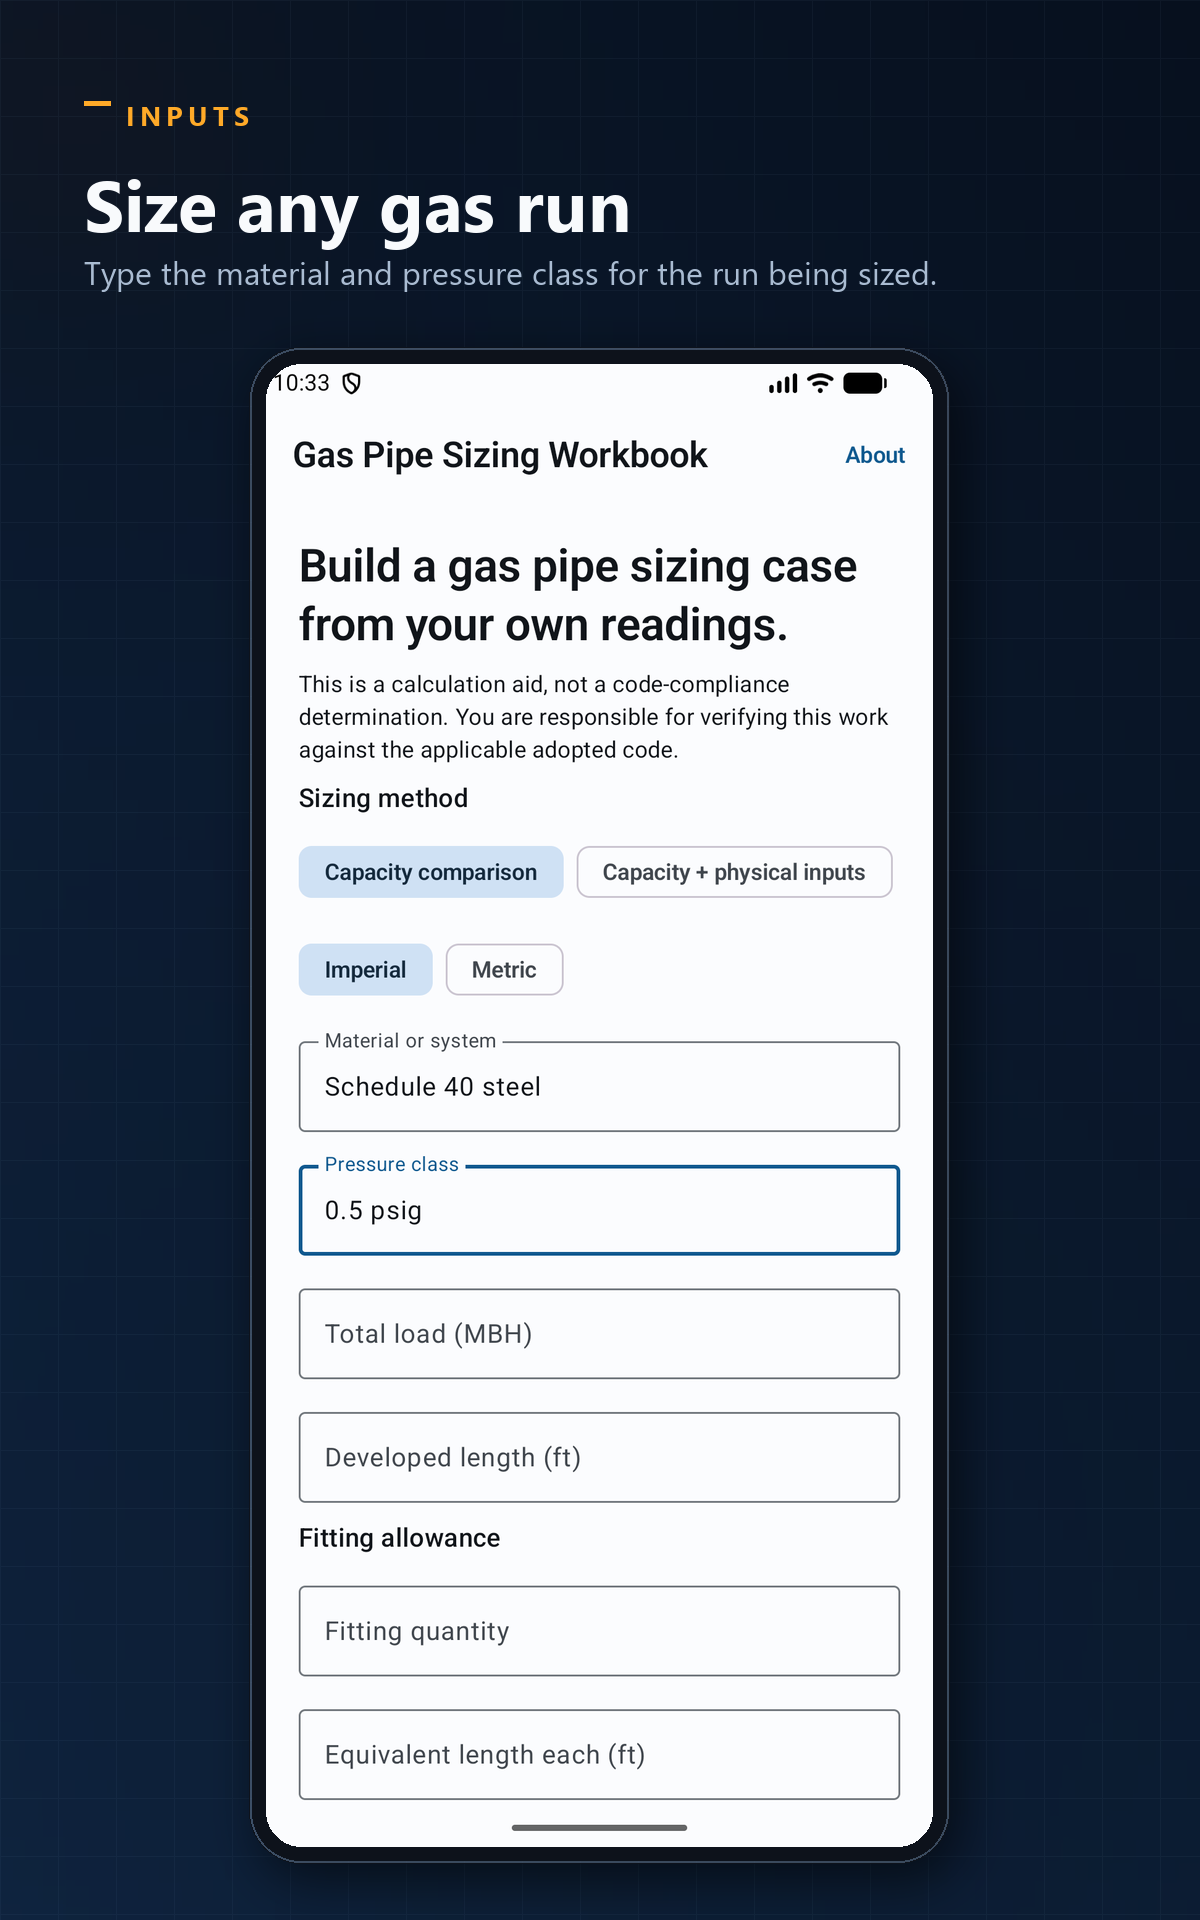
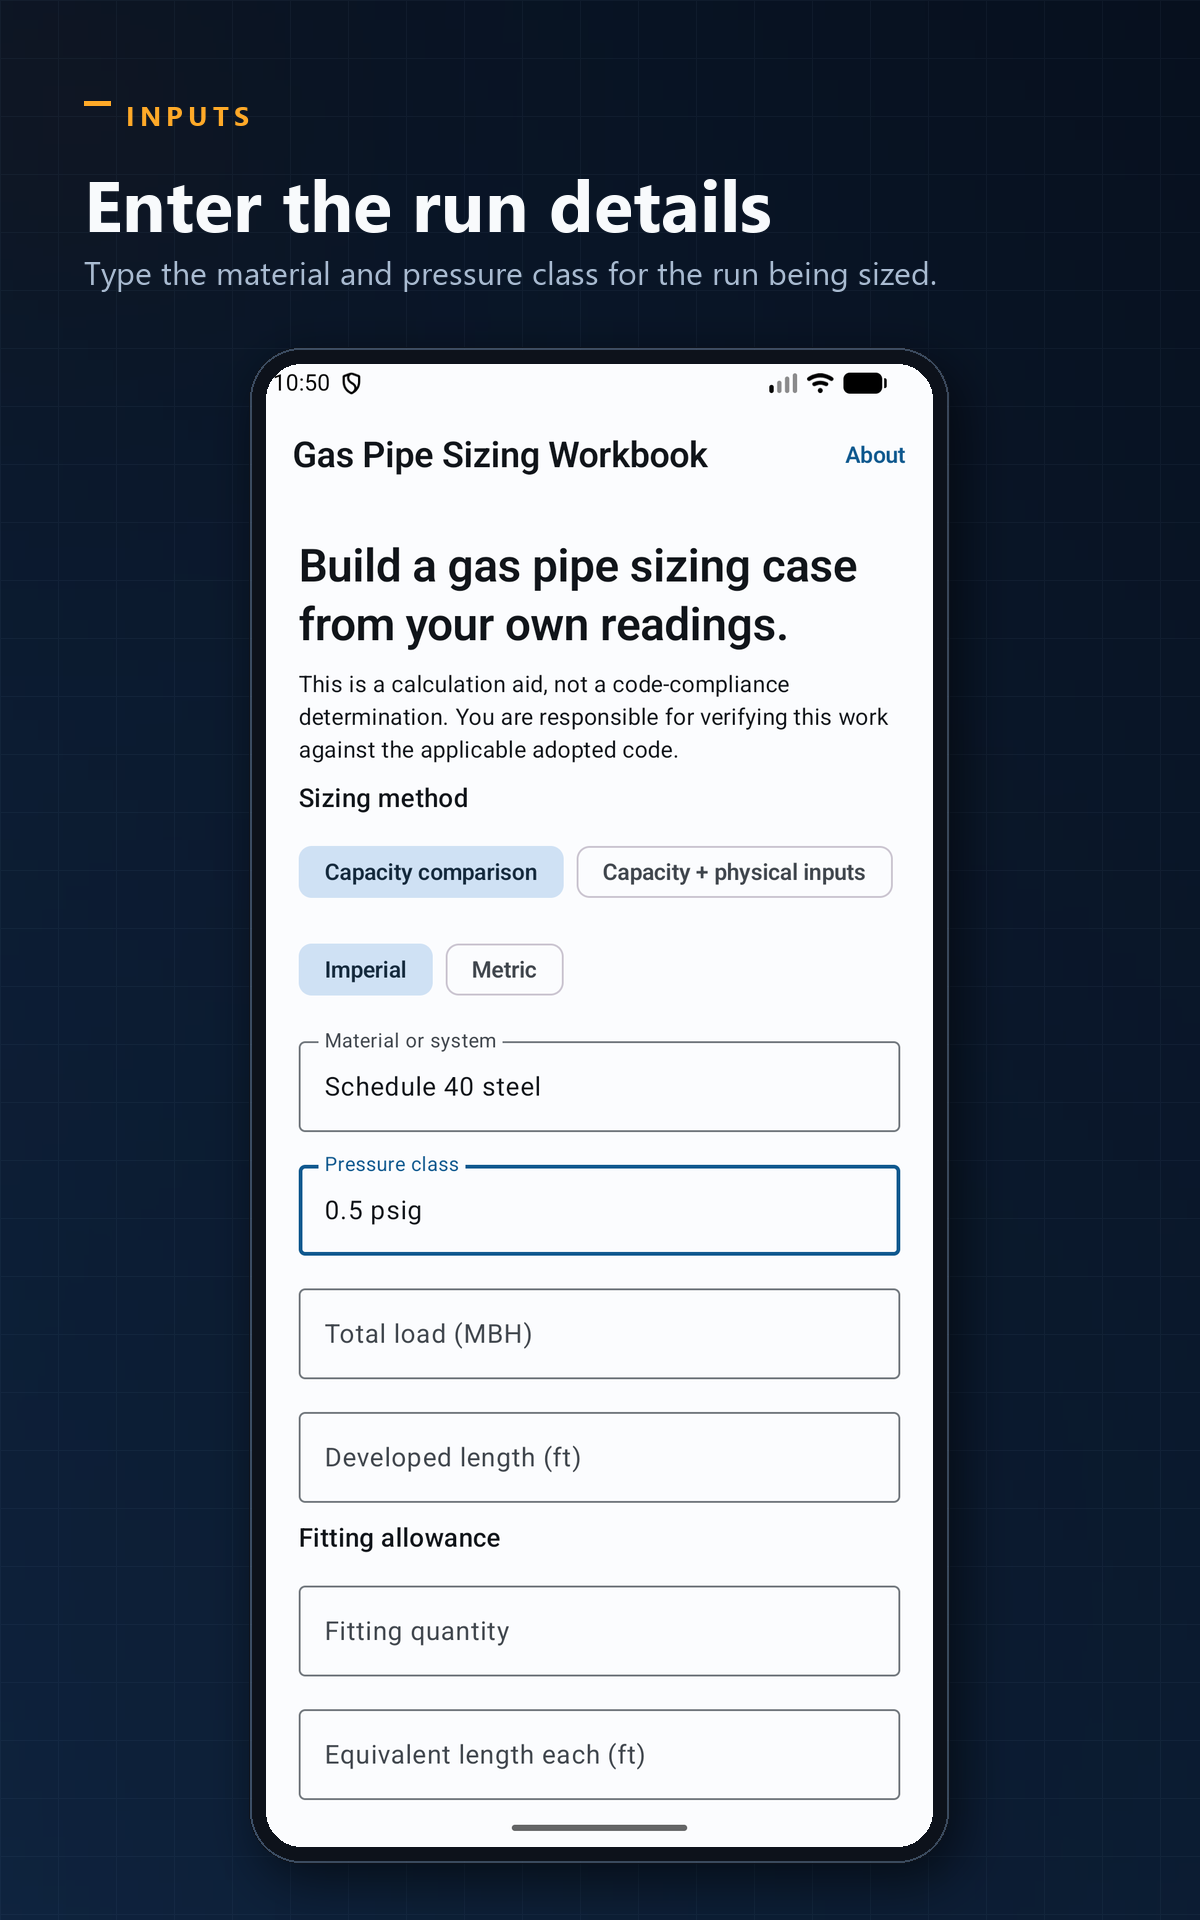
Fix the three findings an independent evaluation raised, plus its two UNVERIFIEDs
Round-4 returned FIX (Tests 3/5, Honesty 3/5). All three findings were
against work from the previous two commits.

High - the capture was not transactionally fail-closed. Captures were written
into captures/raw/ as each shot was taken, so a run failing at shot five had
already overwritten shots one to four with unverified images; the render was
skipped but raw/ was left mixed, and the next render would compose from it.
A second unverified path existed too: store-kit --capture drove the device with
no pm clear, no IME handling, no 'clear' support and no verification, then
rendered unconditionally, so the verified path could be bypassed entirely.
Now: captures stage in captures/staging/ and are moved into raw/ only after the
whole journey verifies, and --capture is retired and refuses with a pointer to
media-capture.mjs.

Medium - several 'expect' entries were static field captions ('Material or
system', 'Total load (MBH)', 'Code and edition', ...) that render regardless of
what was entered, so they could not fail while making a 2-entry check look like
a 4-entry one. Only value-bearing readings are asserted now, the exclusions are
explained in journey.json, and the journey checksum gained the citation line so
its 'echoes every value typed' claim is literally true. Shot 4 now asserts
29.3071 and 12.192, the canonical-reading fix's exact output, so the store check
regression-tests that fix too.

Medium - three headlines claimed more than the app does: 'Size any gas run'
[…]

Changed region(s): [[0.0617, 0.0938, 0.6475, 0.125], [0.6475, 0.1875, 0.6783, 0.2188]]

diff --git a/scripts/store-kit.py b/scripts/store-kit.py
@@ -109,7 +109,9 @@ def parser() -> argparse.ArgumentParser:
         "--locales", default=None, help="Comma-separated locales (supported: en-US,ru-RU)."
     )
     p.add_argument(
-        "--capture", action="store_true", help="Drive an attached device with ADB before rendering."
+        "--capture",
+        action="store_true",
+        help="Retired; refuses. Use 'node scripts/media-capture.mjs --slot <slug>' instead.",
     )
     p.add_argument(
         "--render-only", action="store_true", help="Render from existing captures or synthetic screens."
@@ -1214,51 +1216,22 @@ def run_adb(adb: str, serial: str, args: list[str], *, binary: bool = False) -> 
 
 
 def capture_with_adb(store: Path, listing: dict[str, Any]) -> bool:
-    journey_path = store / "journey.json"
-    if not journey_path.is_file():
-        write_json(journey_path, journey_example(listing))
-        print(f"PASS: wrote documented journey example {journey_path}")
-    adb = adb_path()
-    if not adb:
-        blocked_capture("adb was not found on PATH or under ANDROID_HOME/platform-tools")
-        return False
-    devices = subprocess.run([adb, "devices"], capture_output=True, text=True, check=False)
-    serials = []
-    if devices.returncode == 0:
-        serials = [line.split()[0] for line in devices.stdout.splitlines()[1:] if line.strip().endswith("\tdevice")]
-    if not serials:
-        blocked_capture("adb found no attached device in 'device' state")
-        return False
-    serial = serials[0]
-    journey = json.loads(read_text(journey_path))
-    shots = journey.get("shots", [])
-    if not isinstance(shots, list) or len(shots) < 6:
-        raise StoreKitError(f"{journey_path} must define at least 6 shots")
-    raw_dir = store / "captures" / "raw"
-    raw_dir.mkdir(parents=True, exist_ok=True)
-    run_adb(adb, serial, ["shell", "monkey", "-p", listing["applicationId"], "-c", "android.intent.category.LAUNCHER", "1"])
-    time.sleep(1)
-    for index, shot in enumerate(shots[:6], 1):
-        for step in shot.get("steps", []):
-            kind = step.get("type")
-            if kind == "tap":
-                run_adb(adb, serial, ["shell", "input", "tap", str(step["x"]), str(step["y"])])
-            elif kind == "swipe":
-                run_adb(adb, serial, ["shell", "input", "swipe", str(step["x1"]), str(step["y1"]), str(step["x2"]), str(step["y2"]), str(step.get("durationMs", 350))])
-            elif kind == "wait":
-                time.sleep(max(0, int(step.get("ms", 0))) / 1000)
-            elif kind == "text":
-                value = str(step.get("value", "")).replace(" ", "%s")
-                run_adb(adb, serial, ["shell", "input", "text", value])
-            elif kind == "back":
-                run_adb(adb, serial, ["shell", "input", "keyevent", "4"])
-            else:
-                raise StoreKitError(f"unsupported journey step type: {kind!r}")
-        payload = run_adb(adb, serial, ["exec-out", "screencap", "-p"], binary=True)
-        assert isinstance(payload, bytes)
-        (raw_dir / f"{index:02d}.png").write_bytes(payload)
-        print(f"PASS: captured raw screenshot {index:02d} from {serial}")
-    return True
+    """Refuse: this used to be a second, unverified capture path.
+
+    It drove the device itself and wrote straight into `captures/raw/` with no `pm clear`, no IME
+    handling, no `clear` step support, and - decisively - no verification of what it had
+    photographed, after which `main` rendered the pack from those captures unconditionally. That
+    made it possible to ship a store pack built from a screen nobody had checked, which is the
+    exact failure `scripts/media-capture.mjs` exists to prevent. Two implementations of one
+    journey meant the verified one could be bypassed, so this one is gone.
+    """
+    raise StoreKitError(
+        "--capture is retired: it photographed the device without verifying the result. Use "
+        f"'node scripts/media-capture.mjs --slot {listing.get('slug', '<slug>')}', which asserts "
+        "each shot's expected readings before capturing and refuses to re-render the assets when "
+        "a shot does not match."
+    )
+    return False  # unreachable; keeps the historic signature honest
 
 
 def render_all(store: Path, listing: dict[str, Any], locales: list[str], meta: dict[str, str]) -> None:

diff --git a/harness/lessons.md b/harness/lessons.md
@@ -310,9 +310,26 @@ Entries are append-only and remain in chronological insertion order.
 
 - Symptom: two consecutive capture runs of the same unchanged build produced a **clean** set of screenshots and then a **corrupted** one. The corrupted run showed `2Schedule 40 steel` - a stray leading digit in the material field - and the load field reading `593205.1531` with unit `kW`, an MBH load that had been re-expressed in the wrong unit. The corrupted run was written straight over the six good assets, so the pack was downgraded by a re-run that reported nothing wrong: every step still printed `PASS capture`.
 - Root cause: two independent defects that compounded. (1) **The journey was not idempotent.** The app persists the entered case across process death *on purpose*, which is a feature, so a field could already hold text when typing began; `input text` appends, which is how `2` became the prefix of `2Schedule 40 steel`. The documented precondition "clear the stored case first" existed only as prose in `journey.json` - the tool never enforced it. (2) **A failed verification still rendered.** The re-render step ran unconditionally afterwards, so the artifacts were replaced before anything had been proven about the captures they were built from. The unit corruption additionally shows the app's own unit-switch path was exercised by the previous run's persisted case, so the garbage was a real screen, not a rendering fault - the screenshot was honest and the *state* was wrong.
-- Fix class: **make the journey idempotent and make failure fail closed.** A `clear` step (move to end, then delete) precedes every entry, so a value no longer depends on what the previous run left behind; `pm clear` and the IME retry moved from prose into the tool; and the assets are now rendered only after every shot has verified, with retries, so a run that cannot prove what it photographed leaves the last good pack untouched. `store/journey.json` records why the clears exist, because the next person to add a shot will not know the field may already be populated.
+- Fix class: **make the journey idempotent and make failure fail closed.** A `clear` step (move to end, then delete) precedes every entry, so a value no longer depends on what the previous run left behind; `pm clear` and the IME retry moved from prose into the tool; captures are written to `captures/staging/` and moved into `captures/raw/` only after the whole journey verifies, so the raw directory always holds the previous complete good set or the new complete verified set and never a mixture; and the assets are rendered only after publication, so a run that cannot prove what it photographed leaves the last good pack untouched. `store/journey.json` records why the clears exist, because the next person to add a shot will not know the field may already be populated.
 - Evidence: the A/B on one unchanged build (`phone-01.png` hash `8cd881093cd3` clean, then `dccf254058ea` corrupted, with the on-screen text `2Schedule 40 steel` and `Total load (kW) 593205.1531` read from the `uiautomator` dump); and the restored assets matching the clean hash. The corruption was caught by the checksum from the two entries above, which is the whole point of having it: **the same check that was fabricated in prose is what actually caught this.**
-- Change made: `clear` steps in `store/journey.json`; `pm clear` and retried `ime disable` inside `replayJourney`; per-shot and journey-level `expect` assertions that run before each `screencap`; `--attempts` with a fail-closed `BLOCKED`. Residual: the journey is still sensitive to layout drift, since its coordinates are absolute pixels measured from one AVD profile, and a run can exhaust its attempts on a machine under load.
+- Change made: `clear` steps in `store/journey.json`; `pm clear` and retried `ime disable` inside `replayJourney`; per-shot and journey-level `expect` assertions that run before each `screencap`; `--attempts` with a fail-closed `BLOCKED`; staged publication into `captures/raw/`. Residual: the journey is still sensitive to layout drift, since its coordinates are absolute pixels measured from one AVD profile, and a run can exhaust its attempts on a machine under load.
+- **Correction, added after an independent evaluation:** the fail-closed claim above was initially only half true. Captures were written into `captures/raw/` **as each shot was taken**, so a run that failed at shot five had already overwritten shots one to four with unverified images - the render was skipped, but the raw directory was left in a mixed state that the *next* render would compose from. A second, unverified capture path existed too: `store-kit.py --capture` drove the device itself with no `pm clear`, no IME handling, no `clear` support and no verification, then rendered unconditionally, so the whole verified path could be bypassed. That path is now retired and refuses with a pointer to `media-capture.mjs`, and publication is staged. The rule this leaves: **"fail closed" is a property of the filesystem, not of the control flow** - check what is already written at the moment of failure, not only whether the next step runs.
+
+### 2026-09-25 - two checks that looked like verification and could not fail
+
+- Symptom: an independent evaluator scored the slot **FIX** (Tests 3/5, Honesty 3/5) on three findings, two of which were checks the orchestrator had just written and described as the fix. (1) Several `expect` entries were **static field captions** - `Material or system`, `Pressure class`, `Total load (MBH)`, `Developed length (ft)`, `Code and edition`, `Table`, `Row` - which render on the screen regardless of what was entered, so they were incapable of failing and inflated a 2-entry check into a 4-entry one. (2) Three store headlines made claims the bounded app does not implement: `Size any gas run` (the app owns no code-table data and does not determine the pipe size), `Nothing gets assumed` (it trusts the user's confirmed capacity), and `never hides an assumption`.
+- Root cause: **both are the same defect as the fabricated checksum two entries above - verification-shaped text that cannot be contradicted.** A static label passes a `text=` assertion for the same reason it always passes: it is not a function of the run. It is more dangerous than a missing check because it reads as coverage; the orchestrator wrote four assertions where two were real and reported the count. The overclaimed copy is the same failure in prose form: `Size any gas run` was chosen for rhythm, and nothing in the pipeline compares a headline against the app's capability list - only `graphics.md` and the listing were ever checked for that.
+- Fix class: **state the falsifiable consequence of every assertion, and delete the ones that have none.** `expect` arrays now carry only value-bearing readings, with the exclusions explained in `journey.json` so the next editor does not helpfully add the captions back; the headline ban is recorded in `studio.json` (`_claim_bounds`) so the constraint travels with the copy; and the journey checksum gained the citation line, which makes its "echoes every value typed" claim literally true rather than nearly true.
+- Evidence: the evaluator's own per-entry table separating value-sensitive entries (`4`, `5`, `A`, `2`) from static labels, and its verdict `FIX`; the re-run asserting `29.3071` and `12.192` - the canonical-reading fix's exact rounded output, so the store check now regression-tests that fix too.
+- Change made: expectations trimmed to falsifiable entries; headlines and tagline rewritten to name only verified behaviour (`Enter the run details`, `Missing inputs are named`, `See the arithmetic`); `journey.json` gained `Capacity provenance: CodeCitation(...)`. The general rule: **when a check reports a count, ask which of those entries could have failed** - a check that cannot fail is not half a check, it is a claim of coverage that does not exist.
+
+### 2026-09-25 - a comment asserted the impossibility of the behaviour that was happening
+
+- Symptom: `store-kit.py`'s new `load_studio_renderer` did `import store_studio`, but the module is `scripts/store-studio.py`. A hyphen is not valid in a Python identifier, so the import **could never succeed** - every render silently fell back to the generic renderer. Because `media-capture.mjs` re-renders through `store-kit.py`, the next capture run replaced the freshly composed store visuals with the old screencap-in-a-rounded-rectangle set. The comment directly above that code read: *"Import failures are reported rather than swallowed"*, and the failure mode was swallowing. Fixing the import then exposed a second defect it had been masking - `render_slot` takes the slot directory (it also writes the app's icon vectors) while `render_all` passed the store directory, so it looked for `store/store/listing.json`.
+- Root cause: **the fallback was designed as safety and functioned as a silent downgrade.** A `try/except ImportError: return None` reads as defensive, but here the "degrade gracefully" branch was the *only* branch that ever ran, so the fallback was the feature. And nothing compared the two possible outputs, so a 30 KB generic feature graphic and a 94 KB composed one were both "PASS" - `verify-slot` checks dimensions, not identity. The comment is the tell: it describes the author's intent, and intent is exactly what a fallback branch replaces.
+- Fix class: **make the degradation impossible rather than reporting it.** The studio is loaded by path via `importlib.util.spec_from_file_location`, and any load failure raises `StoreKitError` instead of returning `None`, so a slot that declares `studio.json` cannot receive generic assets while its `graphics.md` describes composed ones. The generated inventory is now produced by the same condition that selects the renderer, so the two cannot disagree.
+- Evidence: `import store_studio` fails with `ModuleNotFoundError` while `spec_from_file_location` loads the same file; the corrupted delegation produced `feature-graphic-1024x500.png` at 30 KB and the fixed one at 94 KB; `store-kit --validate-only` validates icon mode as `RGBA` while the studio had been writing `RGB`.
+- Change made: path-based load that raises; `studio(store.parent)` instead of `studio(store)`; the icon now saved RGBA to match the validator (which `graphics.md` had been asserting all along). Rule: **a fallback that has never been observed to *not* run is not a fallback, it is the implementation** - instrument which branch executes, or delete the other one.
 
 ### 2026-09-25 - the generator re-imported a retired standards name and invented a security claim
 
